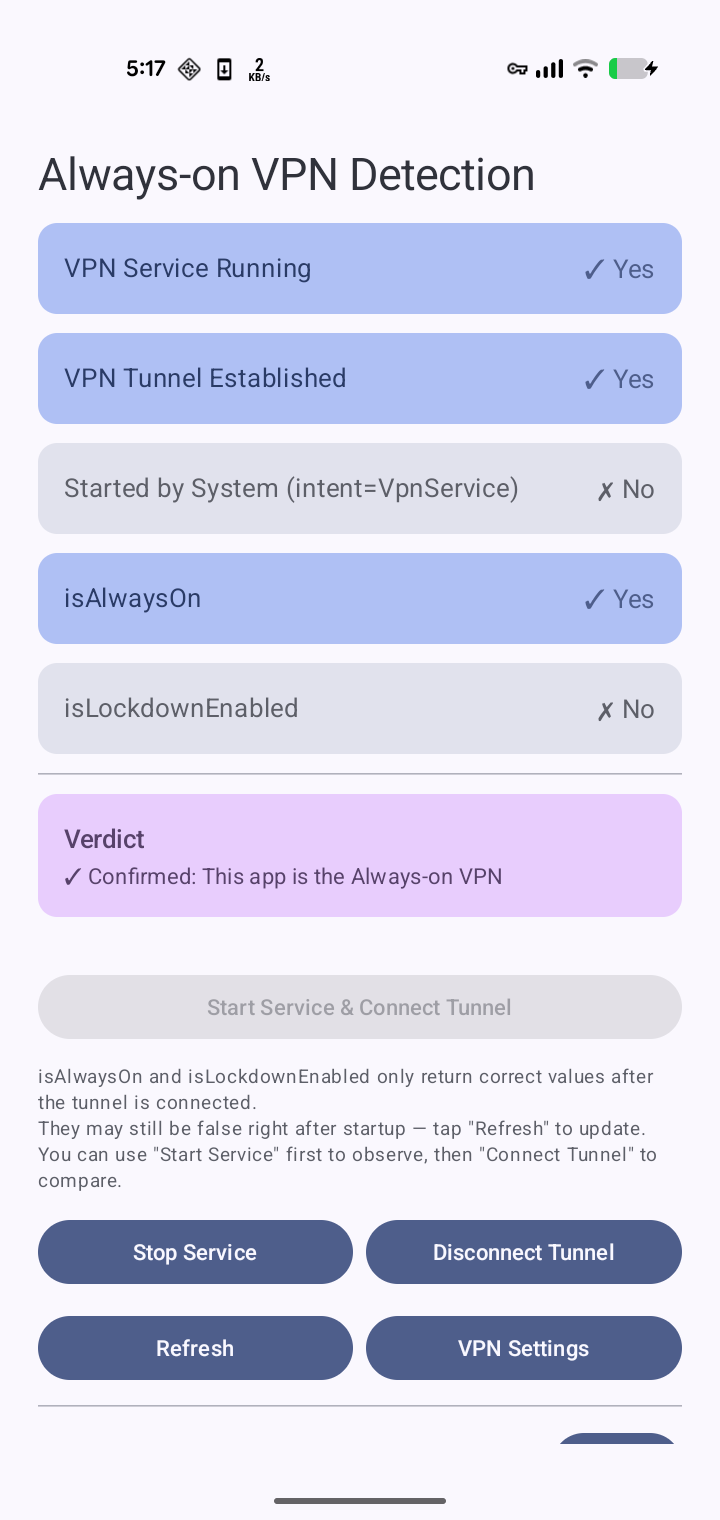
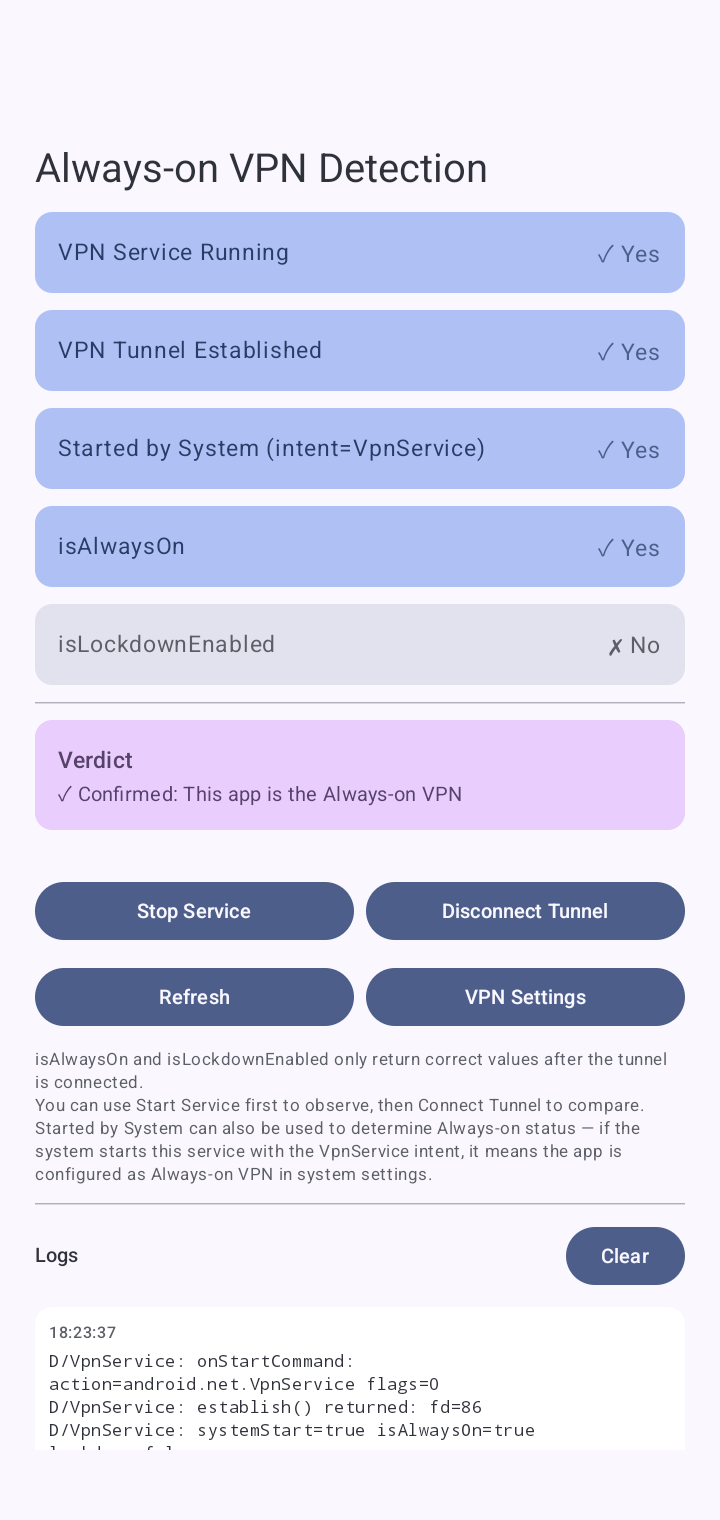
Human correction of AI misjudgments

diff --git a/app/src/main/java/net/iovxw/alwaysontest/MainActivity.kt b/app/src/main/java/net/iovxw/alwaysontest/MainActivity.kt
@@ -132,32 +132,6 @@ class MainActivity : ComponentActivity() {
 
                         Spacer(modifier = Modifier.height(8.dp))
 
-                        // Standalone: Start service + connect tunnel (above the split buttons)
-                        Button(
-                            onClick = {
-                                AppLog.newGroup()
-                                val prepareIntent = VpnService.prepare(this@MainActivity)
-                                if (prepareIntent != null) {
-                                    AppLog.d(TAG, "Need VPN permission, launching...")
-                                    vpnPermissionLauncher.launch(prepareIntent)
-                                } else {
-                                    AppLog.d(TAG, "Starting service + connecting tunnel...")
-                                    startService(Intent(this@MainActivity, AlwaysOnVpnService::class.java).apply {
-                                        putExtra("auto_connect", true)
-                                    })
-                                }
-                            },
-                            modifier = Modifier.fillMaxWidth(),
-                            enabled = !serviceRunning
-                        ) {
-                            Text(stringResource(R.string.btn_start_and_connect))
-                        }
-                        Text(
-                            stringResource(R.string.hint_tunnel_required),
-                            style = MaterialTheme.typography.bodySmall,
-                            color = MaterialTheme.colorScheme.onSurfaceVariant
-                        )
-
                         // Row 1: Service toggle + Tunnel toggle
                         Row(
                             modifier = Modifier.fillMaxWidth(),
@@ -228,7 +202,7 @@ class MainActivity : ComponentActivity() {
                         }
 
                         Text(
-                            stringResource(R.string.hint_system_start),
+                            stringResource(R.string.hint),
                             style = MaterialTheme.typography.bodySmall,
                             color = MaterialTheme.colorScheme.onSurfaceVariant
                         )

diff --git a/app/src/main/java/net/iovxw/alwaysontest/AlwaysOnVpnService.kt b/app/src/main/java/net/iovxw/alwaysontest/AlwaysOnVpnService.kt
@@ -78,6 +78,7 @@ class AlwaysOnVpnService : VpnService() {
     private var readerThread: Thread? = null
 
     private fun establishTunnel() {
+        AppLog.d(TAG, "establishTunnel")
         if (vpnInterface != null) {
             AppLog.d(TAG, "Tunnel already established")
             return
@@ -135,13 +136,12 @@ class AlwaysOnVpnService : VpnService() {
         instance = this
         _serviceRunning.value = true
         val isSystemStart = intent?.action == SERVICE_INTERFACE
-        _startedBySystem.value = isSystemStart
-        _alwaysOn.value = isAlwaysOn
-        _lockdown.value = isLockdownEnabled
-        AppLog.d(TAG, "systemStart=$isSystemStart isAlwaysOn=$isAlwaysOn lockdown=$isLockdownEnabled")
 
-        if (intent?.getBooleanExtra("auto_connect", false) == true || isSystemStart) {
+        refreshState()
+
+        if (isSystemStart) {
             establishTunnel()
+            refreshState()
         }
 
         return START_STICKY

diff --git a/README.md b/README.md
@@ -13,7 +13,6 @@ A diagnostic tool for exploring how Android's `VpnService.isAlwaysOn` and `VpnSe
 Android provides `isAlwaysOn` and `isLockdownEnabled` on `VpnService` to let VPN apps detect whether they have been designated as the system's Always-on VPN. However, these APIs have non-obvious requirements:
 
 - **They only return correct values after a VPN tunnel is established** via `VpnService.Builder.establish()`. Before that, both always return `false`.
-- After `establish()`, there may be a brief delay before the values are updated—manual refresh may be needed.
 - "Started by System" can also be used to determine Always-on status — if the system starts this service with the VpnService `intent.action = VpnService.SERVICE_INTERFACE`, it means the app is configured as Always-on VPN in system settings.
 
 This app provides a UI to experiment with these behaviors interactively.

diff --git a/README_zh.md b/README_zh.md
@@ -13,7 +13,6 @@
 Android 在 `VpnService` 上提供了 `isAlwaysOn` 和 `isLockdownEnabled` 方法，让 VPN 应用检测自己是否被设为系统的「始终开启的 VPN」。但这些 API 有一些不容易发现的前提条件：
 
 - **必须在 `VpnService.Builder.establish()` 建立隧道之后，返回值才是正确的**。在此之前两个值始终返回 `false`。
-- `establish()` 之后可能有短暂延迟，需要手动刷新才能看到更新后的值。
 - 「被系统启动」也可以用来判断是否为 Always-on VPN——如果系统通过 VpnService `intent.action = VpnService.SERVICE_INTERFACE` 启动了本服务，说明本应用已在系统设置中被配置为「始终开启的 VPN」。
 
 本应用提供了一个可交互的界面，方便你实验和观察这些行为。
